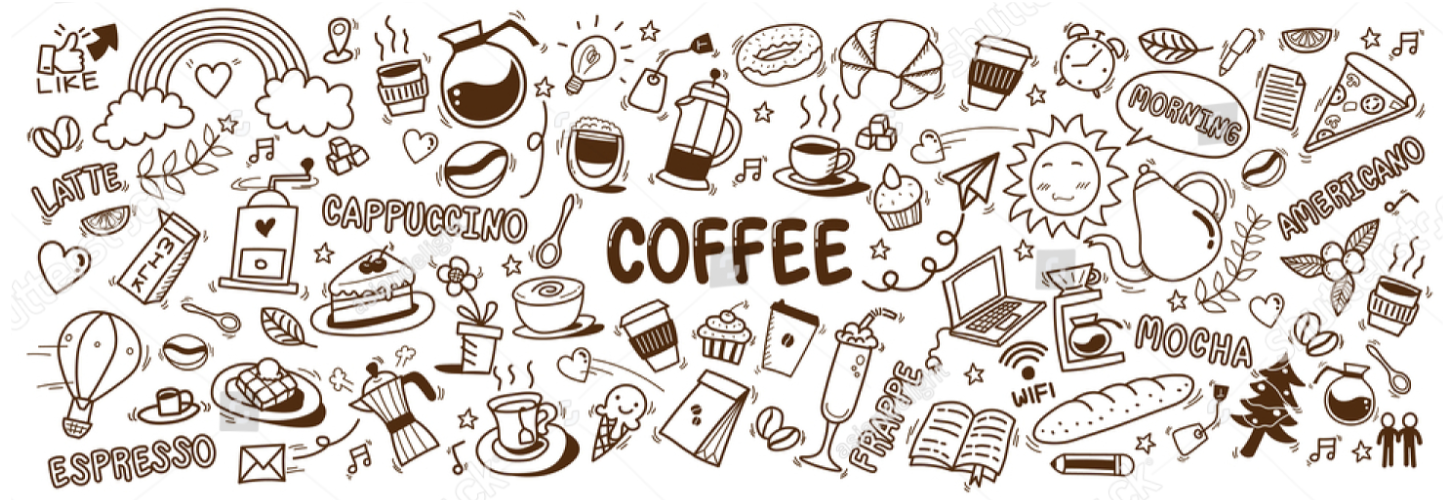
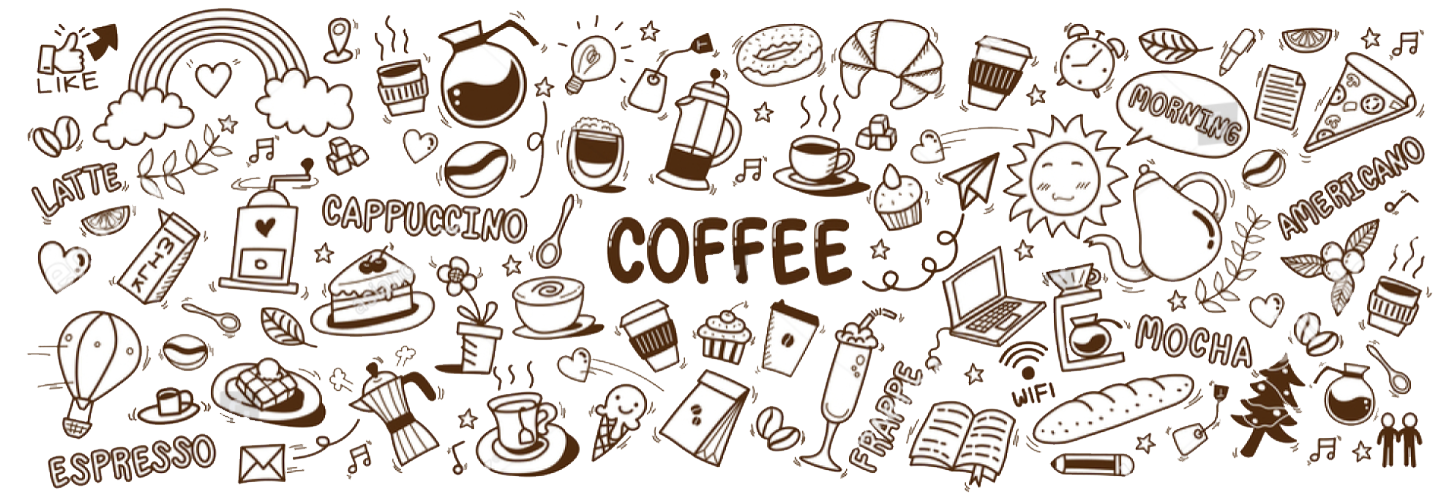
Edit img transparent backgrounds and styled

diff --git a/css/style.css b/css/style.css
@@ -3,6 +3,18 @@
    padding: 0;
 }
 
+header{
+   background-color: white;
+}
+
+header img{
+   height: 100px;
+   opacity: 80%;
+   display: block;
+   margin-left: auto;
+   margin-right: auto;
+}
+
 nav{
    background-color: rgb(188, 220, 248);
    text-align: center;
@@ -34,6 +46,17 @@ body {
    background-color: rgb(241, 238, 224);
    min-height: 100vh;
    position: relative;
+}
+
+.content{
+   margin: 0rem 10rem;
+   text-align: center;
+}
+
+.content img{
+   opacity: 0.8;
+   width: 1280px;
+   height: auto;
 }
 
 footer{
